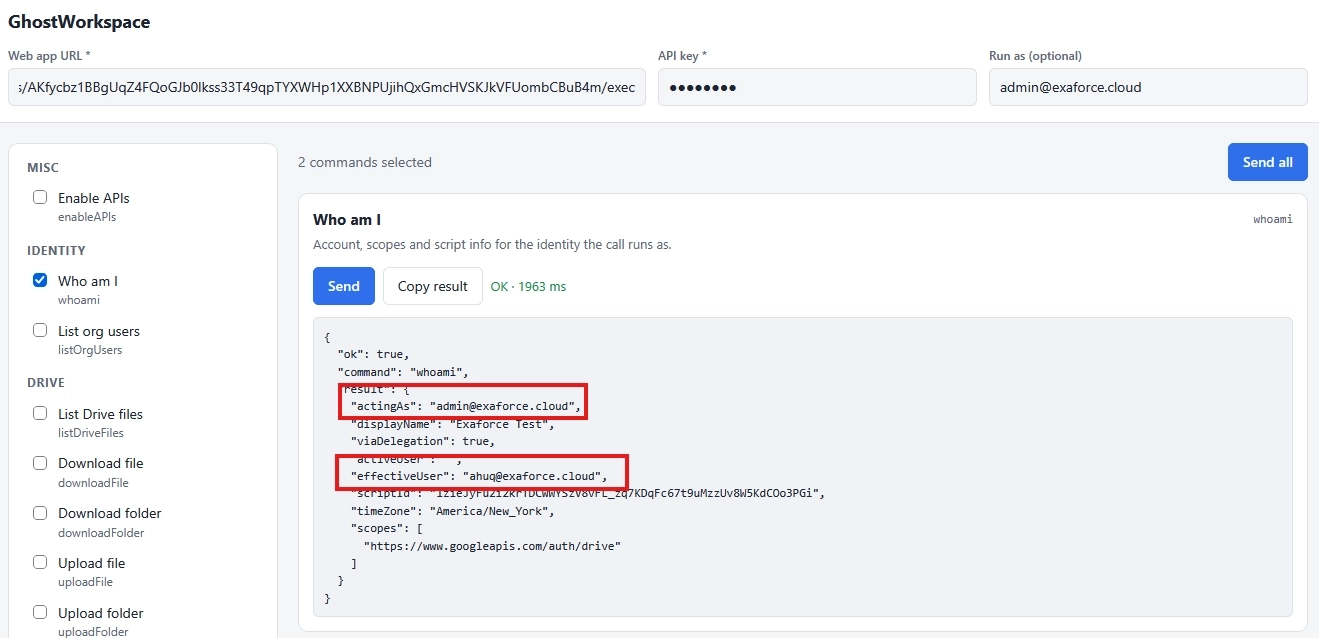
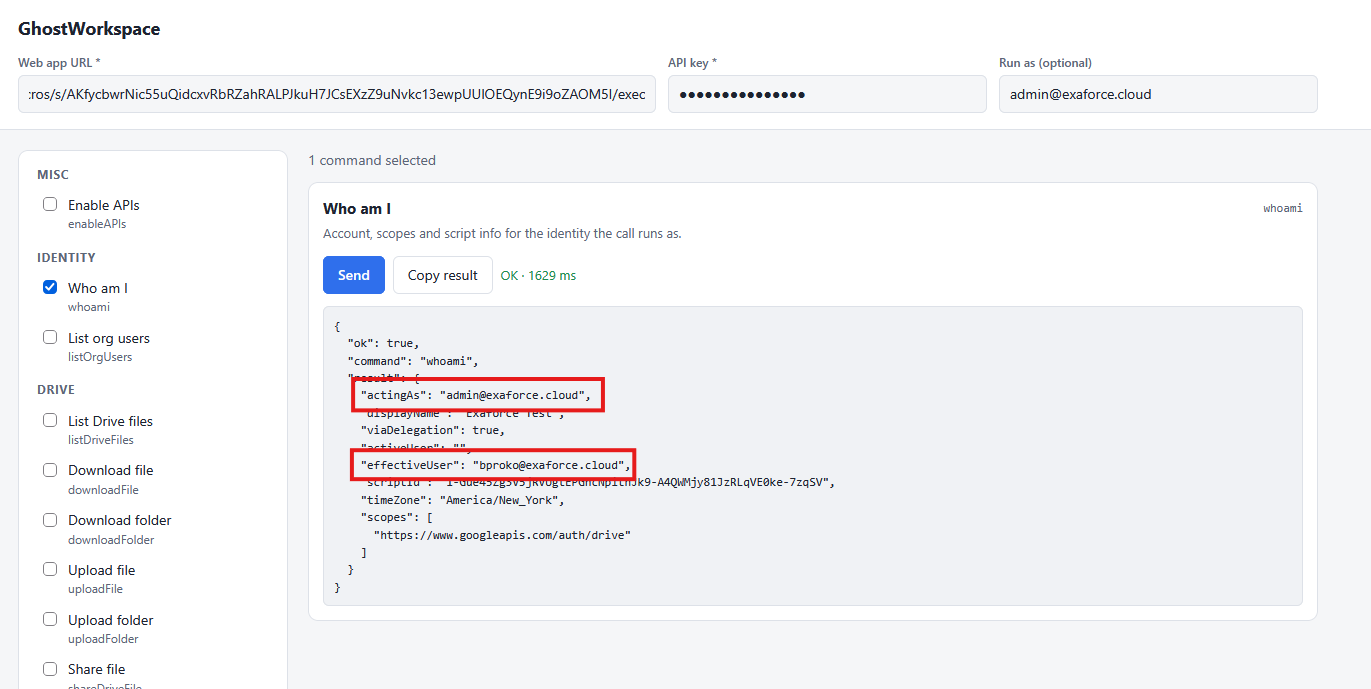
Add files via upload

diff --git a/README.md b/README.md
@@ -32,21 +32,23 @@ Those commands fall into a few groups that map directly to the built-in services
 
 ## Set-up
 
-To setup, access to script.google.com is needed for the compromised user. This can be achieved through getting access to their account through session hijacking, which can be achieved through phishing attacks such as Adversary-In-The-Middle phishing. Currently, there is no programmatic way of 
+To setup, access to script.google.com is needed for the compromised user. This can be achieved through getting access to their account through session hijacking, which can be achieved through phishing attacks such as Adversary-In-The-Middle phishing. Currently, there is no programmatic way of creating 
 
 On script.google.com, a new project needs to be created, where the code inside the directory **back-end** from **GhostWorkspace** can be uploaded. The two files from the directory are the metadata file `appsscript.json`, and the code of the backdoor `main.js`.
 
-![alt text](img/setup-backend.png)
+![alt text](/img/setup-backend.png)
 
 `appsscript.json` contains a list of scopes the app needs and API Services which need to be enabled. When the file is added, the service APIs are enabled by default, but the scopes will require authorization by the user owning the app.
 
-![alt text](img/api-services.png)
+![alt text](/img/api-services.png)
+
+![alt text](/img/authorize%20scopes.png)
 
 The script needs an API Key, which is just a parameter to allow the script to know the requester is the attacker and not some other entity. The `API_KEY` value can be anything. 
 
 If the DWD route is chosen, the attacker needs to add the Service Account and scopes to DWD configurations as seen previously and provide the SA JSON Key on the variable `SA_KEY`.
 
-![alt text](img/system-properties.png)
+![alt text](/img/system-properties.png)
 
 ## UI Interface
 
@@ -54,8 +56,8 @@ Upon setting up the back-end backdoor, it can be accessed through a front-end si
 
 It will require the `API_KEY` value defined before to validate the ownership of the script. Upon providing them, it will allow execution of the tasks.
 
-![alt text](img/user-test.png)
+![alt text](/img/user-test.png)
 
 If DWD is configured, it will only request the email of the target user to impersonate and execute tasks on their behalf.
 
-![alt text](img/dwd-test.png)
+![alt text](/img/dwd-test.png)
